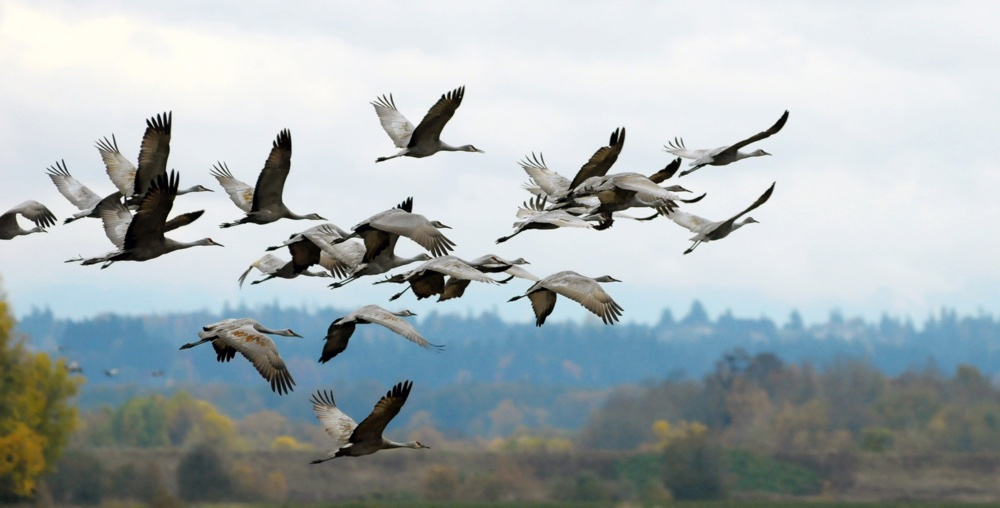
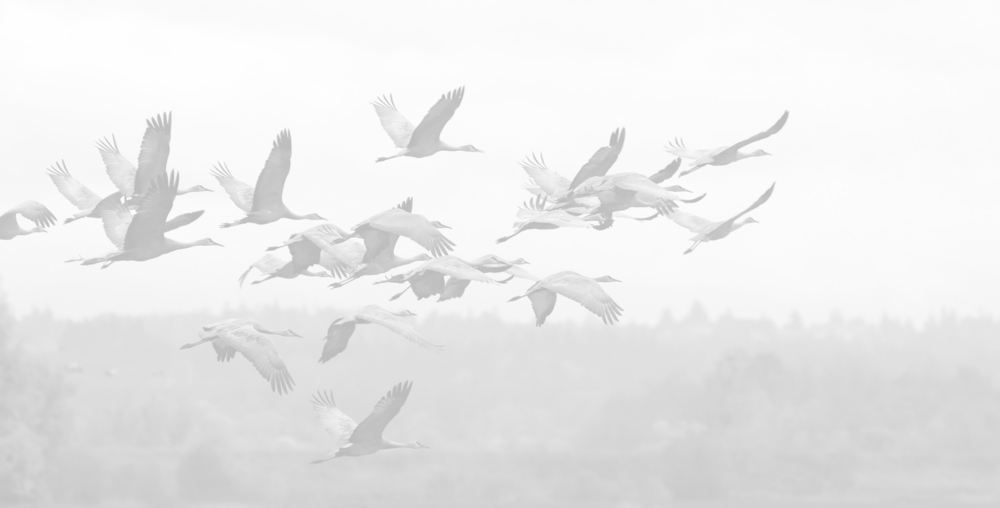
Pending changes

diff --git a/slides/yireo/react_to_ko.md b/slides/yireo/react_to_ko.md
@@ -109,6 +109,7 @@
 ~ UiComponent calls upon child ViewModels + templates
 
 ---
+{class: center}
 # What if we could migrate?
 {background-image: mm18pl/migrate.jpg}
 
@@ -131,6 +132,7 @@
 </div>
 
 ---
+{state: light}
 # Module structure (1 of 2)
 ```
 registration.php
@@ -145,6 +147,7 @@ view/frontend/web/css/source/_module.less
 ```
 
 ---
+{state: light}
 # Module structure (2 of 2)
 ```
 view/frontend/web/js/container.js
@@ -160,6 +163,7 @@ view/frontend/web/js/compiled/Minicart.js
 ```
 
 ---
+{state: light}
 # Migration method for Minicart
 ~ Copy real-life HTML from Element Inspector
 ~ Remove all KO parts
@@ -167,6 +171,7 @@ view/frontend/web/js/compiled/Minicart.js
 	- Remove all element bindings (`data-bind=`)
 
 ---
+{state: light}
 # Minicart HTML
 Old HTML:
 ```html
@@ -179,6 +184,7 @@ New HTML:
 ```
 
 ---
+{state: light}
 # Migration method for Minicart
 - Copy real-life HTML from Element Inspector
 - Remove all KO parts
